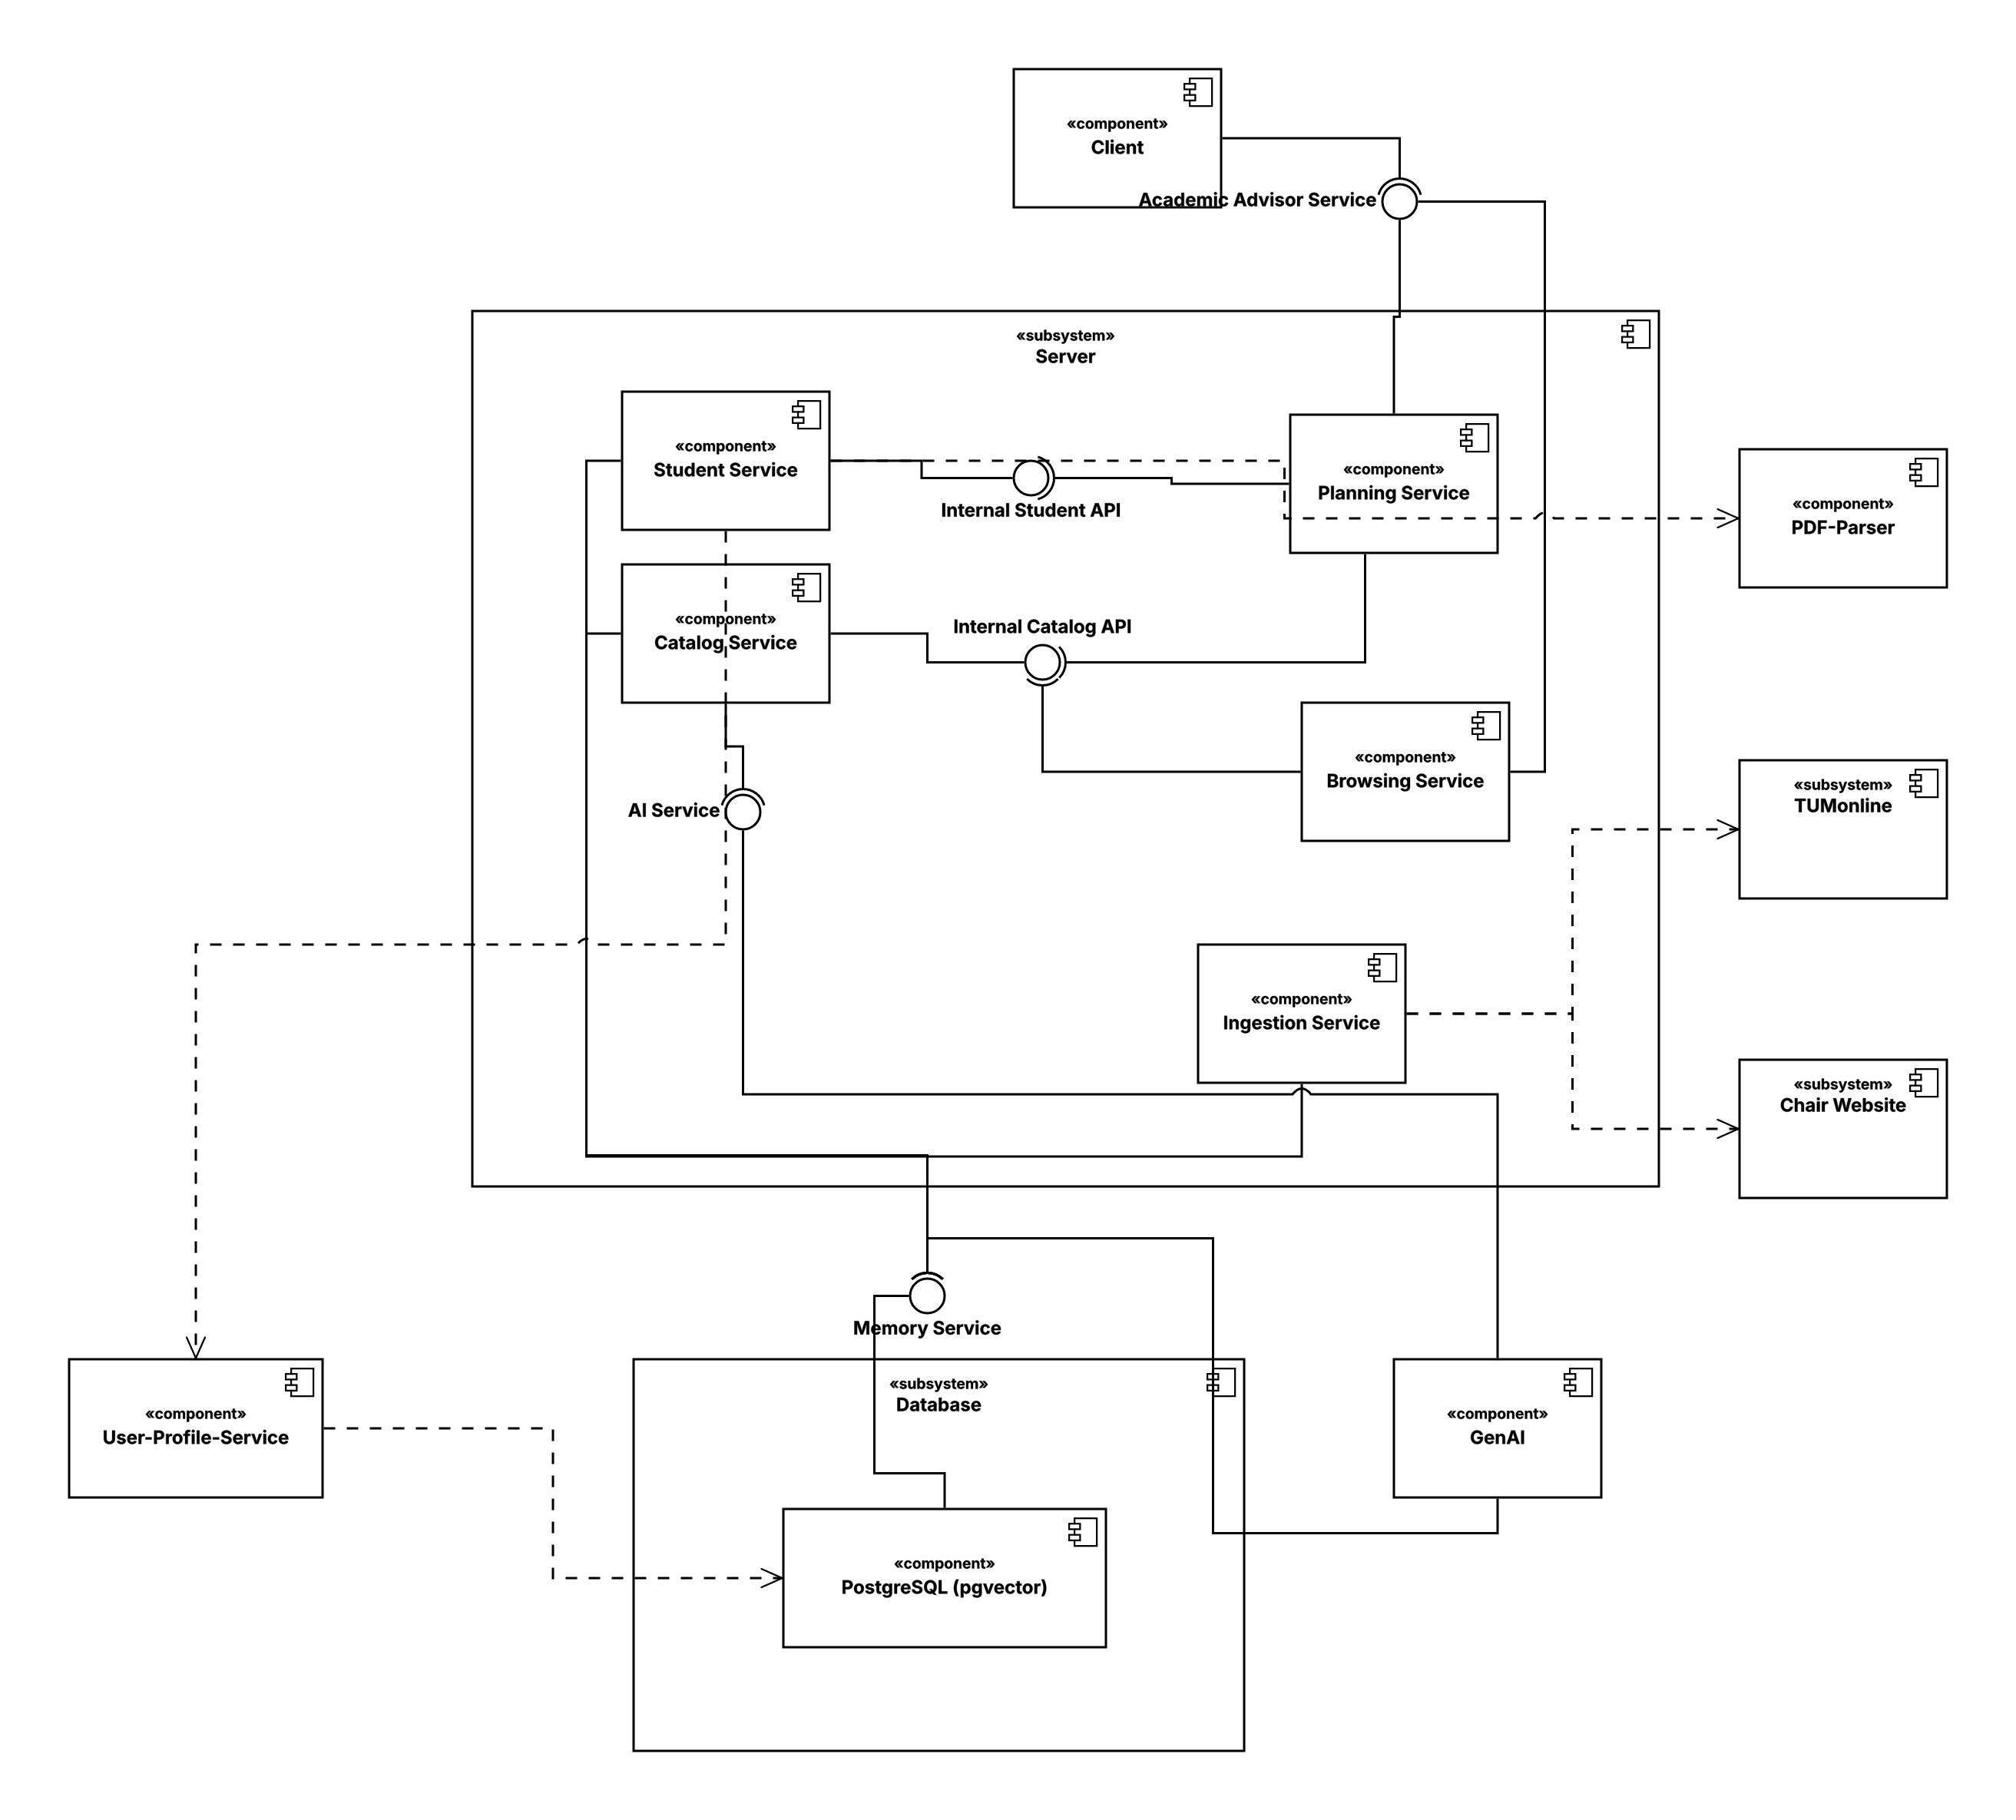
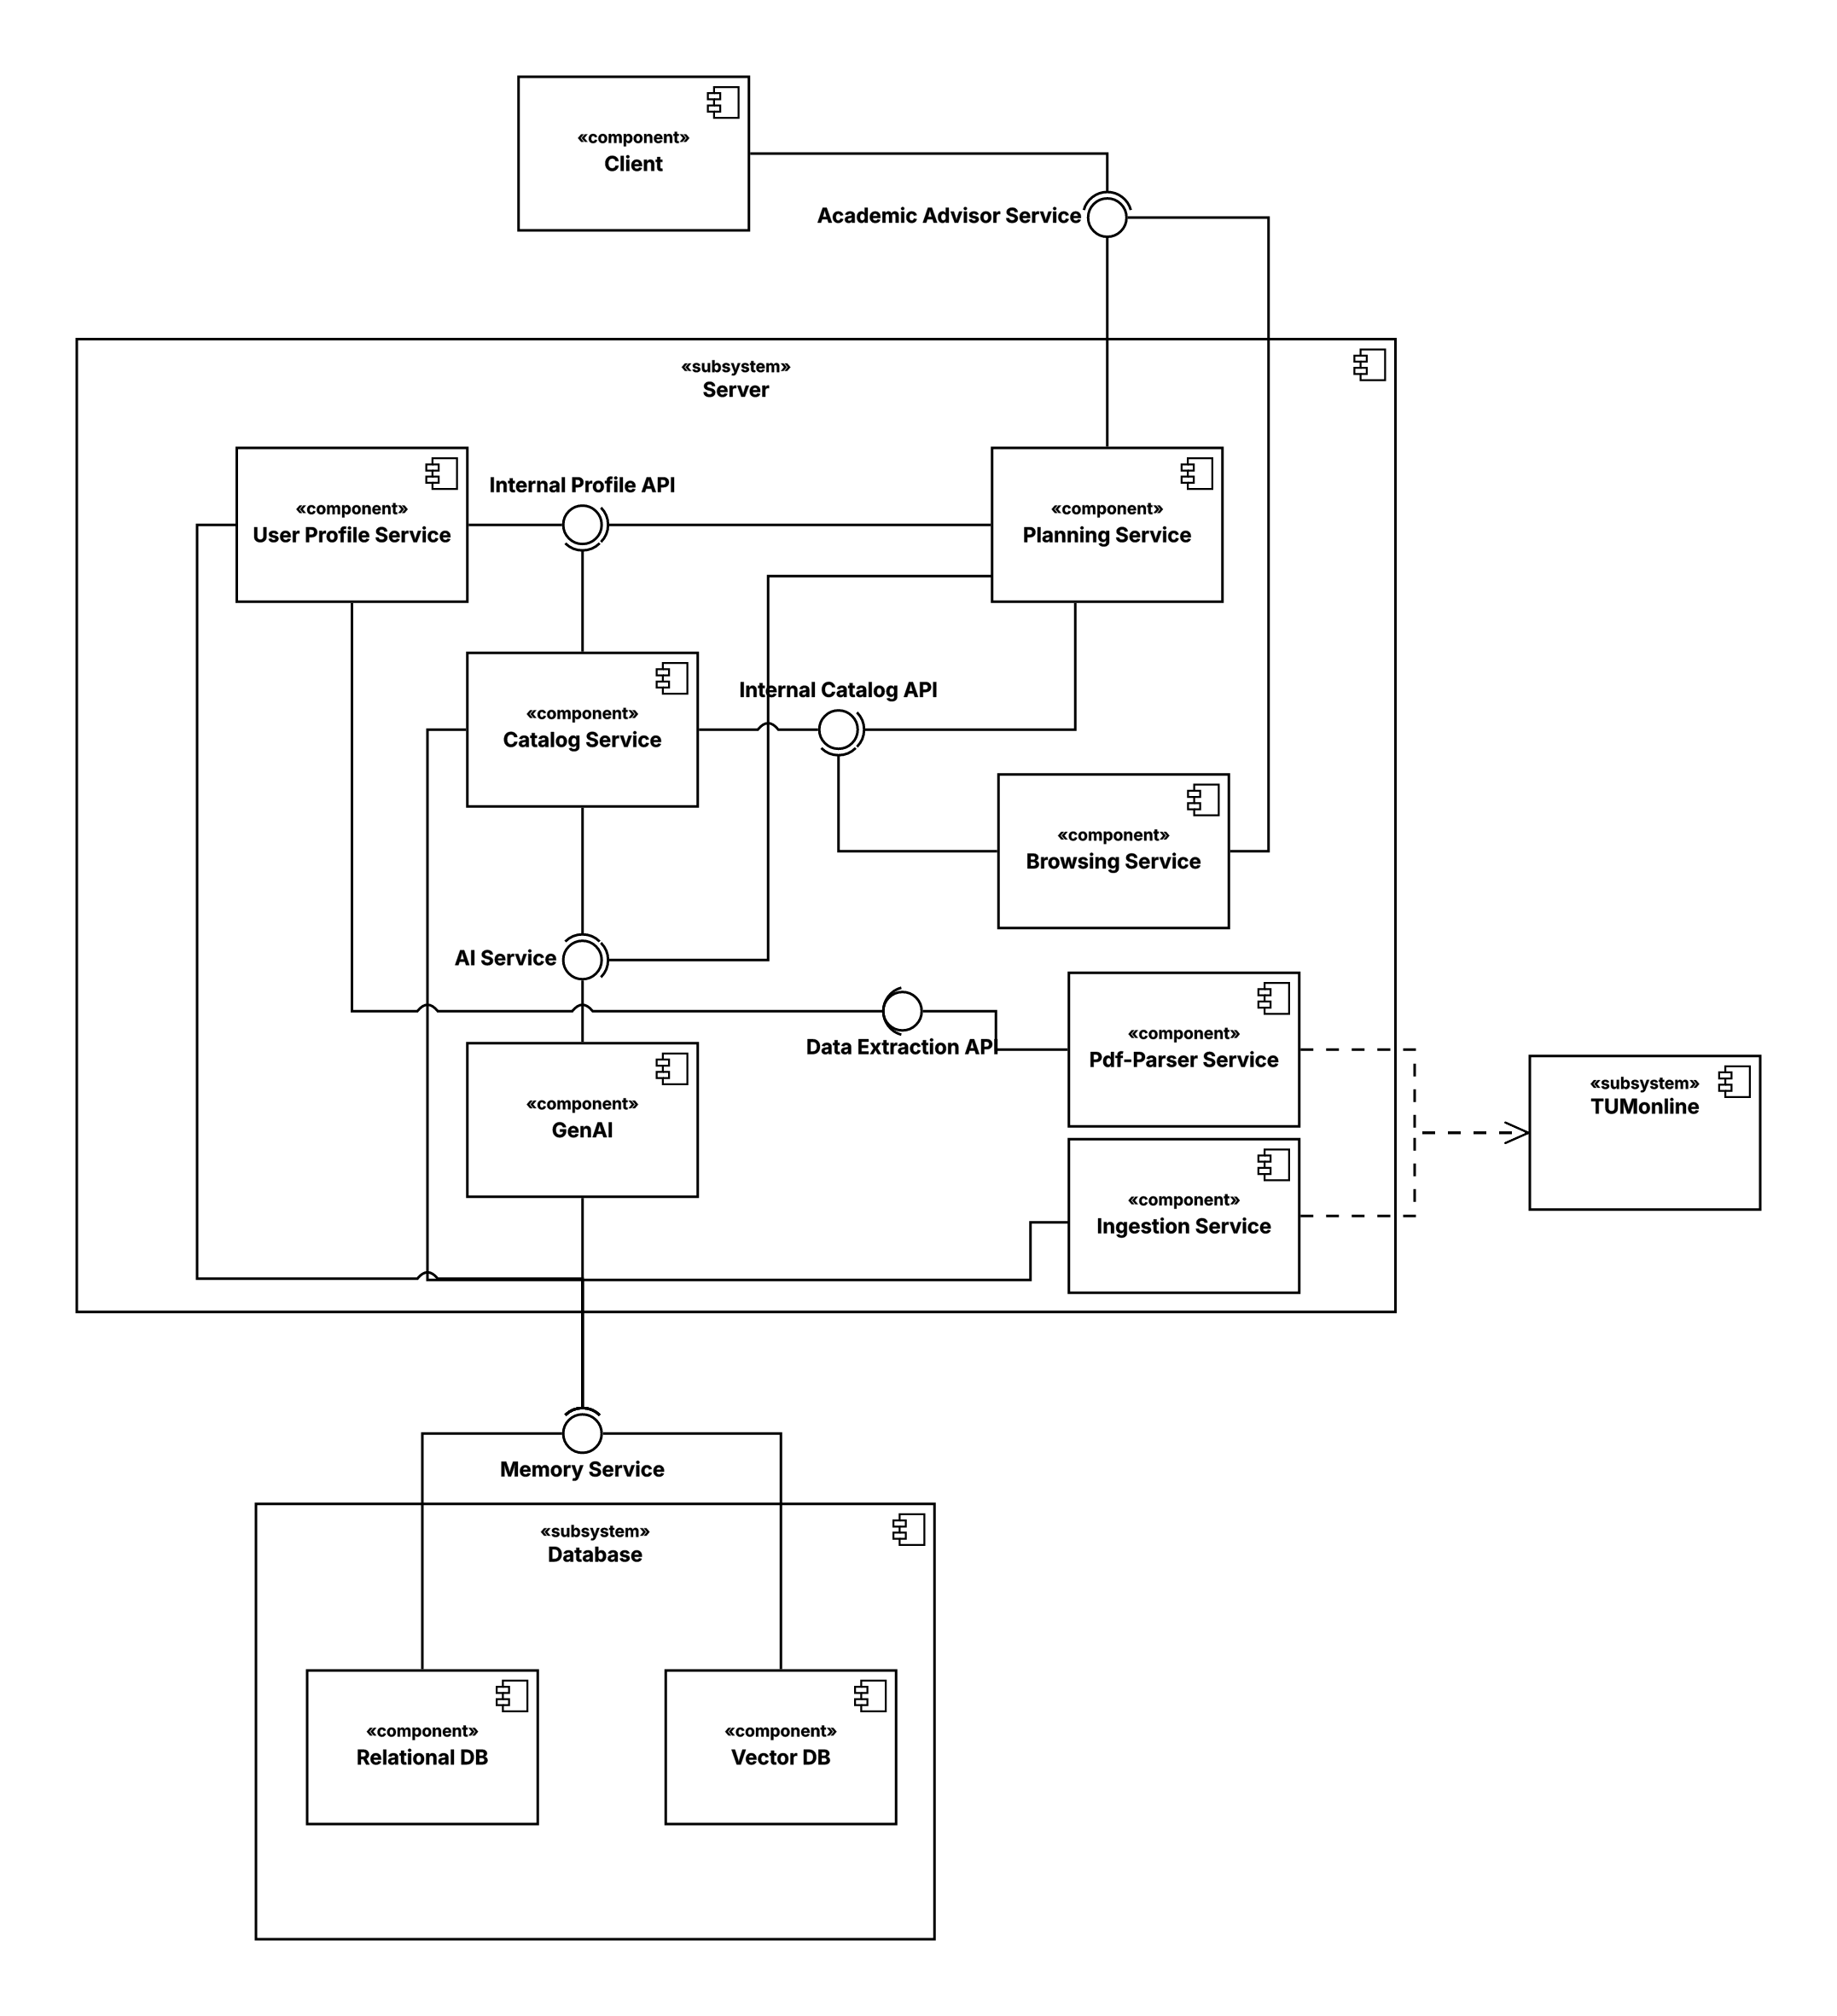
diagram update

diff --git a/README.md b/README.md
@@ -56,10 +56,10 @@ To isolate heavy computational tasks and leverage the best ecosystem for artific
 *   By decoupling this from the Spring Boot server, the main backend remains highly performant and avoids being bottlenecked by AI processing latency. Communication between the Spring Boot server and this microservice is handled via internal REST calls.
 
 #### User-Profile-Service: Spring Boot Microservice
-A dedicated Spring Boot microservice on port 8060 manages user profile data in a PostgreSQL-backed profile store, keeping the main server focused on business logic and API orchestration.
+A dedicated Spring Boot microservice manages user profile data in a PostgreSQL-backed profile store, keeping the main server focused on business logic and API orchestration.
 
 #### PDF-Parser: Spring Boot Microservice
-A dedicated Spring Boot microservice on port 8070 handles PDF parsing tasks such as extracting course data from uploaded transcripts.
+A dedicated Spring Boot microservice handles PDF parsing tasks such as extracting course data from uploaded transcripts.
 
 #### Database: PostgreSQL
 Data persistence is managed using PostgreSQL, a highly reliable and scalable relational database system.
@@ -77,11 +77,21 @@ Data persistence is managed using PostgreSQL, a highly reliable and scalable rel
 ### 🧩 Analysis Object Model (Domain Model)
 ![Analysis Object Model (Domain Model)](./docs/diagrams/DomainModel.png)
 
+### deployment urls
+
+    https://aidan.stud.k8s.aet.cit.tum.de/dashboard
+    https://aidan-monitoring.stud.k8s.aet.cit.tum.de
+
 ### Test User
 
     username: admin
 
     password: test
+
+### Grafana Login
+
+    username: admin
+    password: admin
 
 ### Build Instructions
 